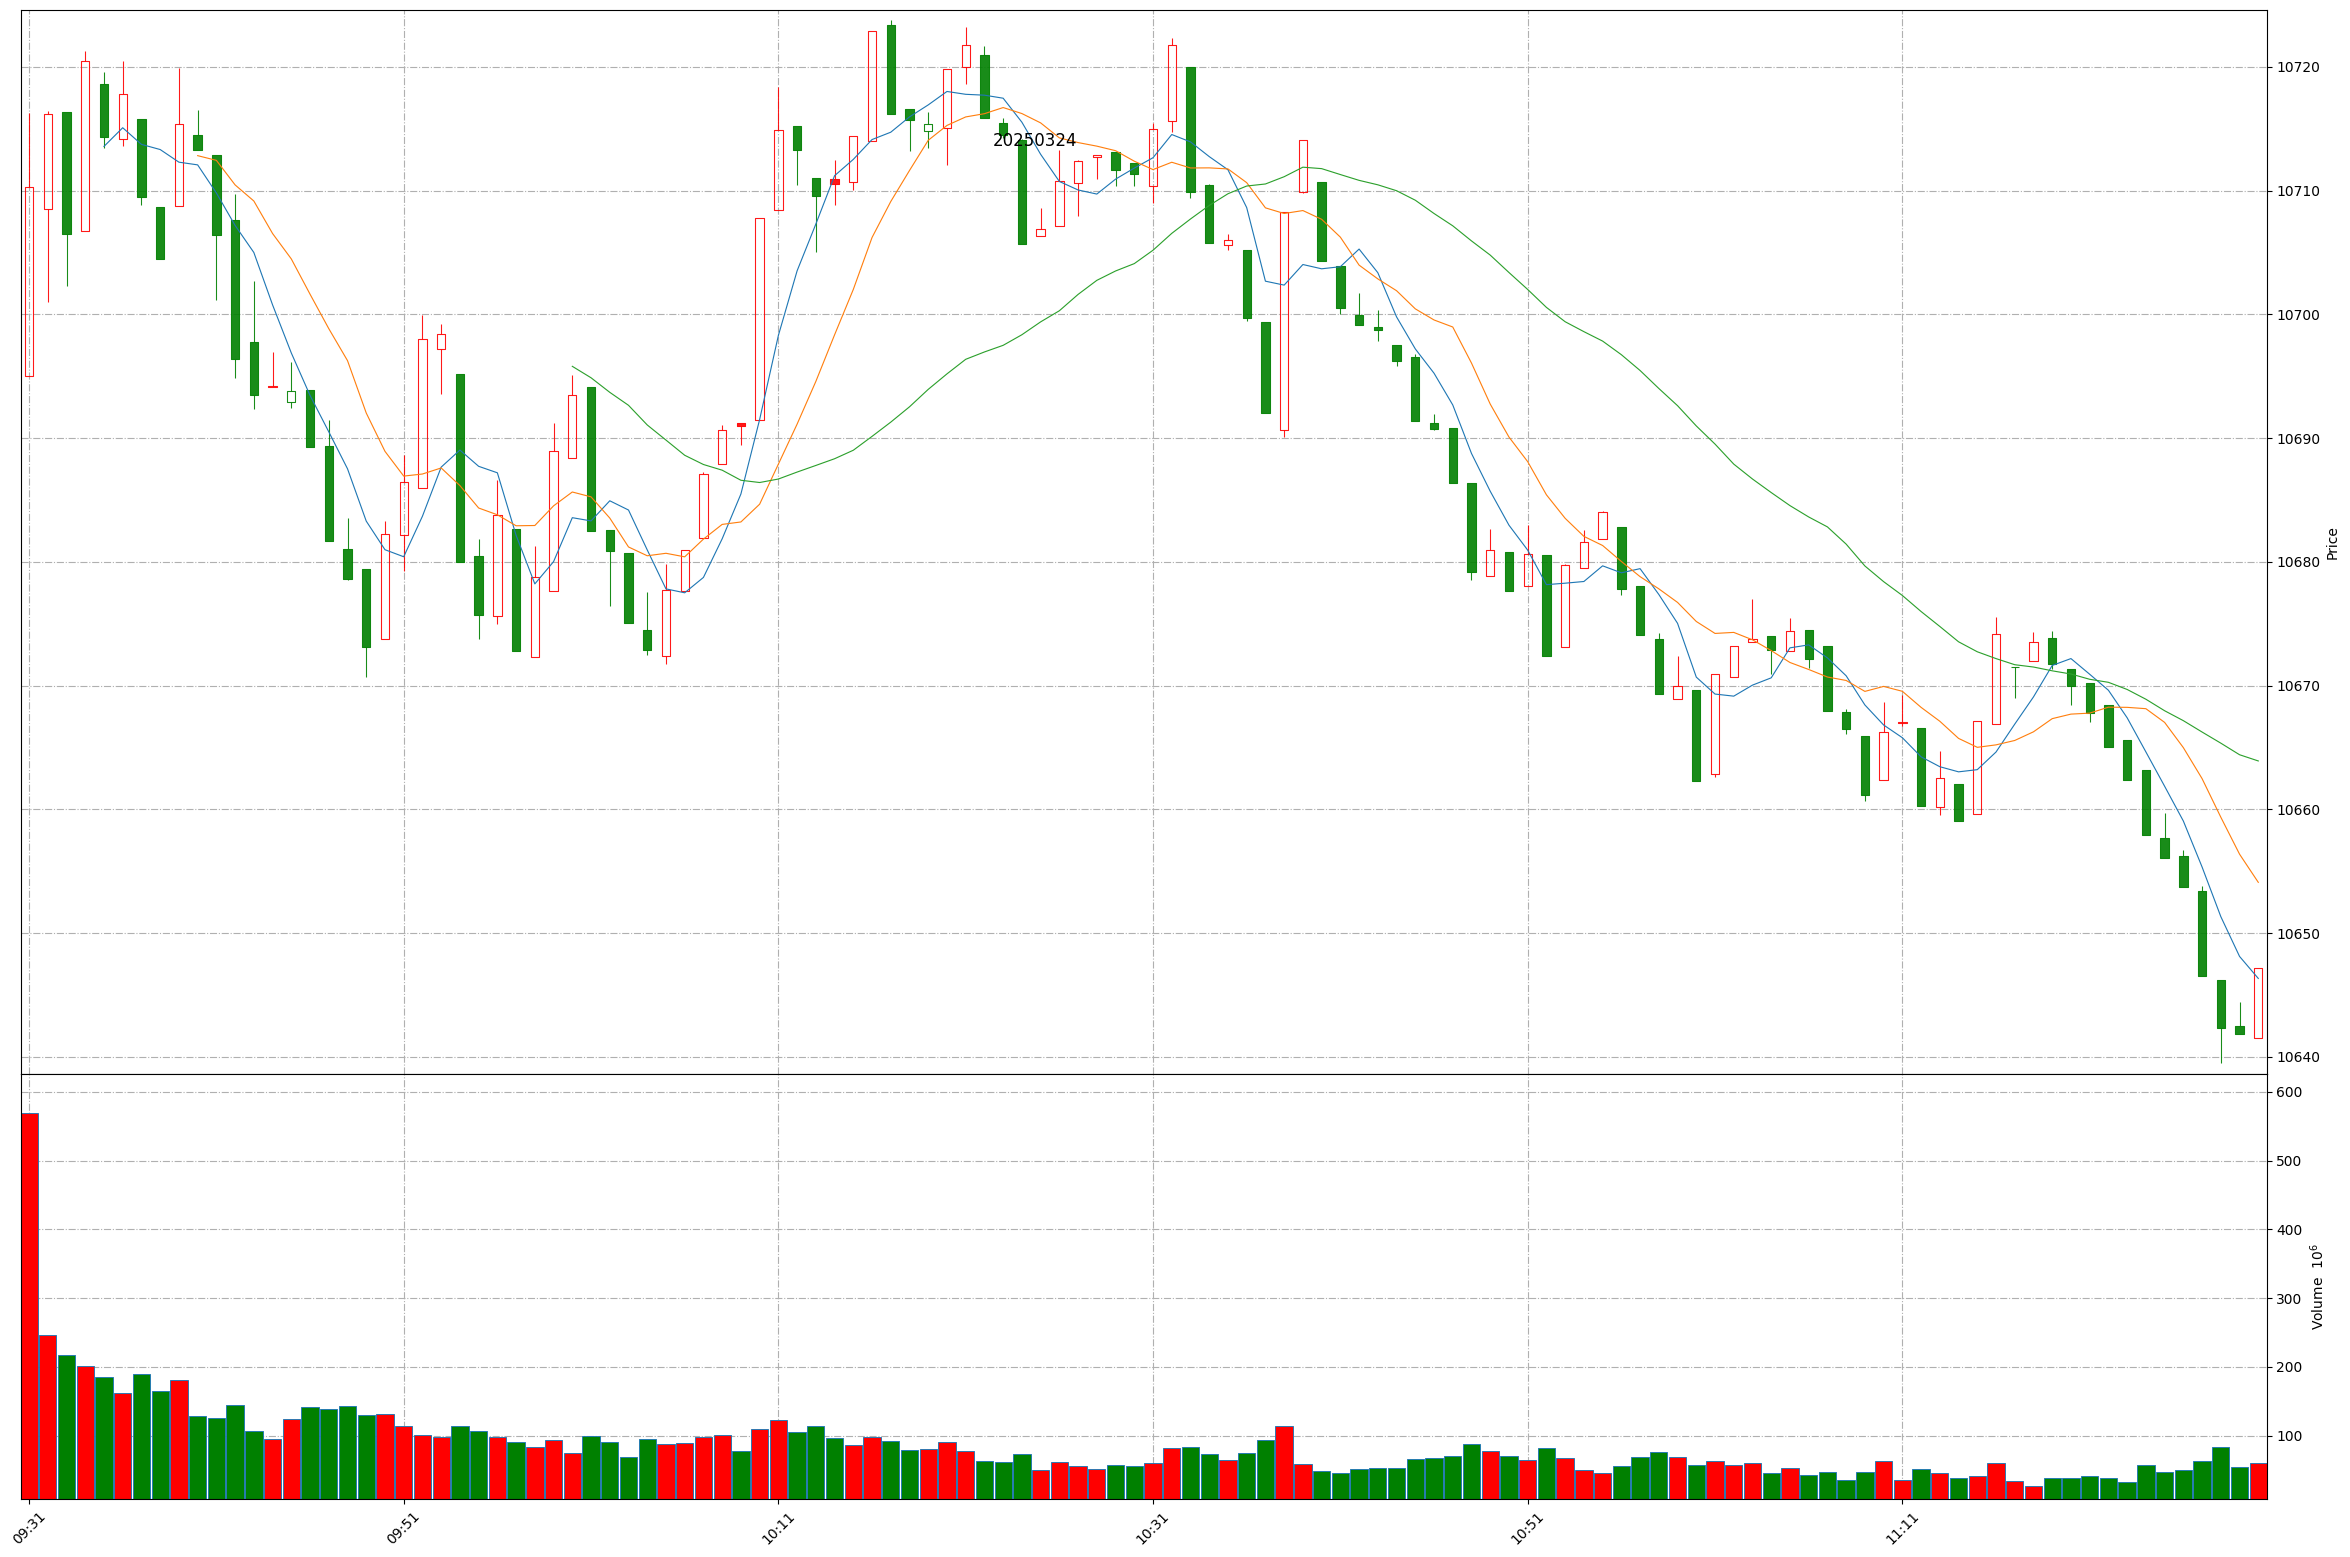
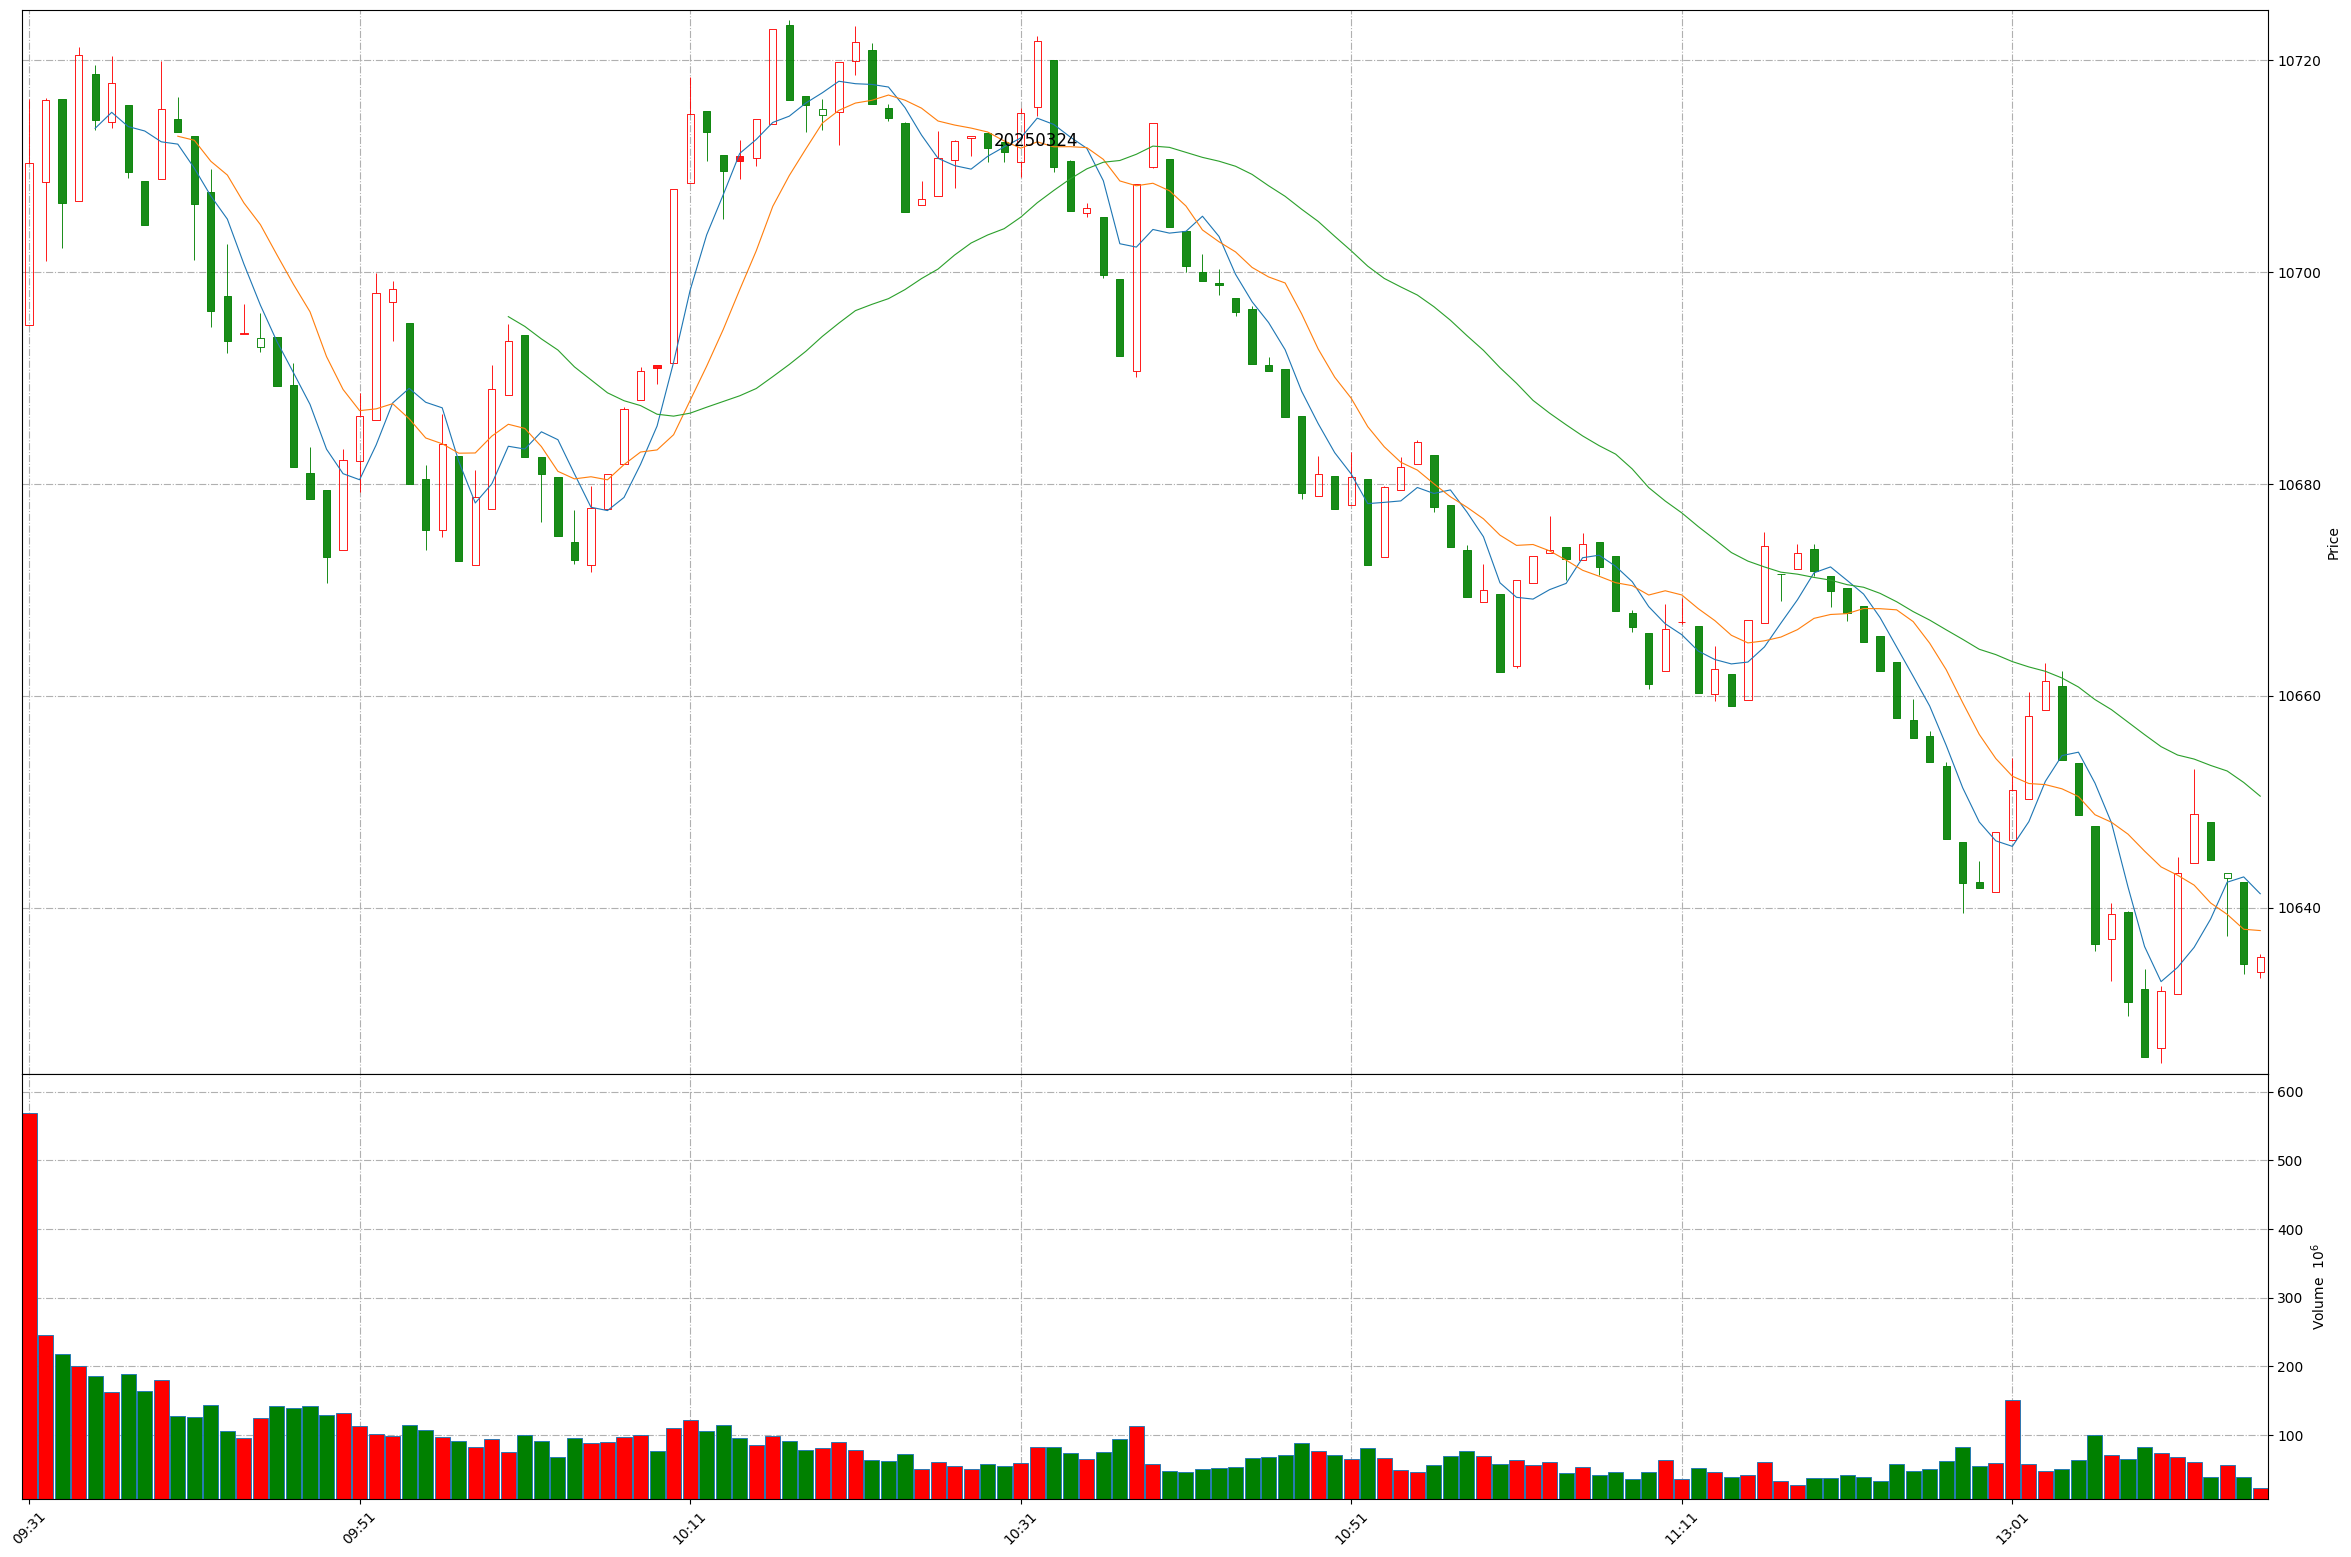
Github action update at 2025-03-24 13:15:40.

diff --git a/README.md b/README.md
@@ -1,11 +1,11 @@
 
 # Daily-A-share-market-quotes 每日 A 股指数（5min 更新）- 20250324
 
-### 上证指数 20250324 11:48
+### 上证指数 20250324 13:15
 ![](./fig/2025/3/20250324-sh000001.png)
 
-### 深证成指 20250324 11:48
+### 深证成指 20250324 13:15
 ![](./fig/2025/3/20250324-sz399001.png)
 
-### 北证50 20250324 11:48
+### 北证50 20250324 13:15
 ![](./fig/2025/3/20250324-bj899050.png)
